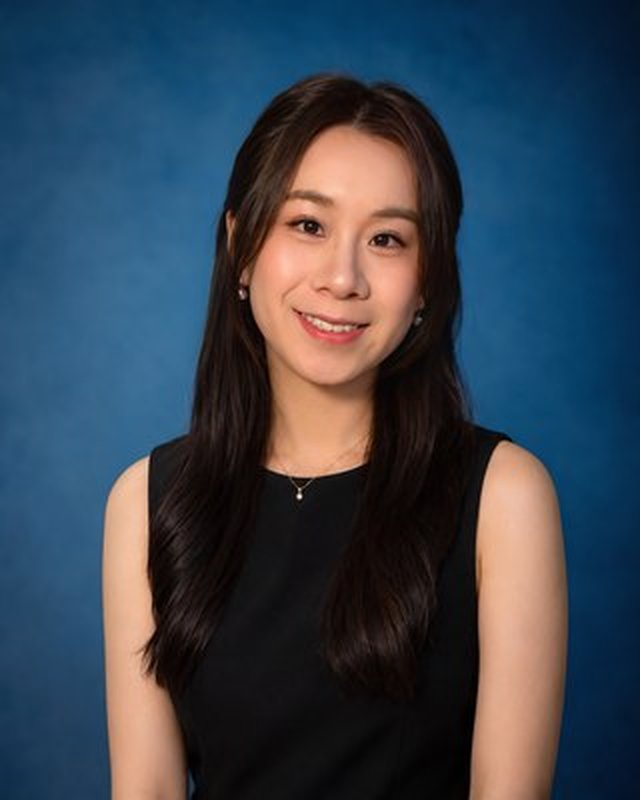
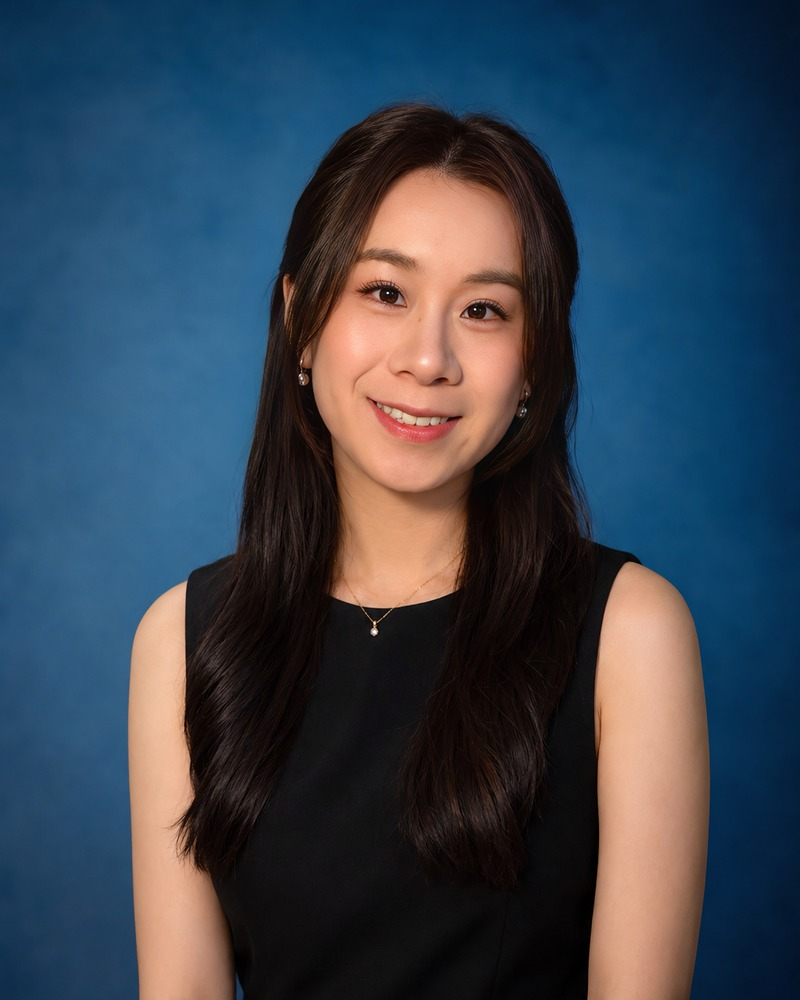
Polish hero CTAs, contact grid, nav, and sharper hero photo.
Shortens hero buttons to one row, refines resume contact card icon colors, and exports retina hero photo assets.

diff --git a/index.html b/index.html
@@ -186,11 +186,21 @@ a { text-decoration: none; color: inherit; }
   border-radius: 2px;
 }
 
+@media (max-width: 900px) {
+  .nav {
+    max-width: min(920px, 96vw);
+    padding: 9px 16px 9px 12px;
+  }
+  .nav-links { gap: 12px; }
+  .nav-link { font-size: 13px; }
+  .nav-name-cn { display: none; }
+}
+
 @media (max-width: 768px) {
   .nav-links { gap: 14px; }
   .nav-link { font-size: 13px; }
   .nav-name-en { font-size: 13px; }
-  .nav-name-cn { font-size: 11px; }
+  .nav-link--wide { display: none; }
 }
 
 /* ============================================
@@ -336,10 +346,21 @@ a { text-decoration: none; color: inherit; }
 
 .hero-ctas {
   display: flex;
-  gap: 14px;
+  gap: 10px;
   align-items: center;
-  flex-wrap: wrap;
+  flex-wrap: nowrap;
   margin-top: 8px;
+}
+
+.hero-ctas .btn {
+  padding: 12px 20px;
+.hero-ctas .btn-tertiary {
+  padding: 12px 6px;
+}
+
+  font-size: 14px;
+  white-space: nowrap;
+  flex-shrink: 0;
 }
 
 .btn {
@@ -378,6 +399,19 @@ a { text-decoration: none; color: inherit; }
   transform: translateY(-2px);
   background: rgba(93, 112, 82, 0.06);
 }
+.btn-resume {
+  background: rgba(61, 107, 84, 0.10);
+  color: var(--moss-deep);
+  border: 1.5px solid var(--moss-deep);
+  box-shadow: none;
+}
+
+.btn-resume:hover {
+  transform: translateY(-2px);
+  background: rgba(61, 107, 84, 0.16);
+  box-shadow: var(--shadow-sm);
+}
+
 
 .btn-tertiary {
   background: transparent;
@@ -435,9 +469,18 @@ a { text-decoration: none; color: inherit; }
   aspect-ratio: 4 / 5;
   border-radius: var(--r-img);
   box-shadow: var(--shadow-lg);
-  background: url('./assets/hero-photo.jpg') center 20% / cover no-repeat;
   position: relative;
   z-index: 1;
+  overflow: hidden;
+  background: var(--bg-paper);
+}
+
+.hero-photo img {
+  width: 100%;
+  height: 100%;
+  object-fit: cover;
+  object-position: center 18%;
+  display: block;
 }
 
 /* ============================================
@@ -2540,7 +2583,7 @@ a { text-decoration: none; color: inherit; }
 
 .contact-card:hover {
   background: rgba(255, 253, 247, 0.08);
-  border-color: rgba(212, 165, 116, 0.45);
+  border-color: rgba(255, 253, 247, 0.22);
   transform: translateY(-2px);
 }
 
@@ -2552,13 +2595,33 @@ a { text-decoration: none; color: inherit; }
   height: 30px;
   flex-shrink: 0;
   border-radius: 7px;
-  background: rgba(212, 165, 116, 0.14);
-  color: rgba(212, 165, 116, 1);
 }
 
 .contact-icon svg {
   width: 16px;
   height: 16px;
+}
+
+/* 简历：琥珀色图标强调优先级 */
+.contact-card--resume .contact-icon {
+  background: rgba(212, 165, 116, 0.22);
+  color: var(--amber);
+  border: 1px solid rgba(212, 165, 116, 0.38);
+}
+
+.contact-card--resume:hover {
+  border-color: rgba(212, 165, 116, 0.55);
+}
+
+/* 邮箱 / LinkedIn / GitHub：苔藓绿图标 */
+.contact-icon--green {
+  background: rgba(93, 112, 82, 0.28);
+  color: rgba(186, 214, 195, 0.95);
+  border: 1px solid rgba(93, 112, 82, 0.42);
+}
+
+.contact-card:has(.contact-icon--green):hover {
+  border-color: rgba(125, 155, 132, 0.5);
 }
 
 .contact-text {
@@ -3789,13 +3852,20 @@ a { text-decoration: none; color: inherit; }
     max-width: 100%;
   }
   .hero-ctas {
-    flex-direction: column;
-    align-items: stretch;
+    flex-wrap: nowrap;
+    gap: 8px;
     width: 100%;
+    overflow-x: auto;
+    -webkit-overflow-scrolling: touch;
+    scrollbar-width: none;
+    padding-bottom: 2px;
   }
+  .hero-ctas::-webkit-scrollbar { display: none; }
   .hero-ctas .btn {
+    padding: 10px 14px;
+    font-size: 13px;
     justify-content: center;
-    width: 100%;
+    width: auto;
     box-sizing: border-box;
   }
 
@@ -3916,12 +3986,12 @@ a { text-decoration: none; color: inherit; }
       </div>
     </div>
     <div class="nav-links">
-      <a href="#hero" class="nav-link active">Home</a>
-      <a href="#research" class="nav-link">Research</a>
+      <a href="#hero" class="nav-link nav-link--wide active">Home</a>
+      <a href="#research" class="nav-link nav-link--wide">Research</a>
       <a href="#works" class="nav-link">Works</a>
-      <a href="#toolkit" class="nav-link">AI Workflow</a>
+      <a href="#toolkit" class="nav-link">Workflow</a>
       <a href="#writing" class="nav-link">Writings</a>
-      <a href="#about" class="nav-link">About</a>
+      <a href="#about" class="nav-link nav-link--wide">About</a>
       <a href="#contact" class="nav-link">Contact</a>
     </div>
   </nav>
@@ -3957,14 +4027,15 @@ a { text-decoration: none; color: inherit; }
 
     <div class="hero-ctas fade-up delay-5">
       <a href="#works" class="btn btn-primary">查看代表作品 →</a>
-      <a href="#toolkit" class="btn btn-secondary">看看我的 AI 工作流</a>
+      <a href="./assets/zhengnn_resume.pdf" class="btn btn-resume" target="_blank" rel="noopener noreferrer">下载简历 ↓</a>
+      <a href="#toolkit" class="btn btn-secondary">看看 AI 工作流</a>
       <a href="#contact" class="btn btn-tertiary">联系我</a>
     </div>
 
     <!-- AI JD Match · Hero 内嵌 demo -->
     <div class="jd-match fade-up delay-6">
       <h3 class="jd-match-title">想看我和这个岗位的<em>匹配度</em>？</h3>
-      <p class="jd-match-subtitle">贴 JD 或选下方示例，30 秒内告诉你。</p>
+      <p class="jd-match-subtitle">选择一个岗位方向，看看我的匹配判断框架。</p>
 
       <div class="jd-match-row">
         <input type="text" class="jd-match-input" id="jd-input" placeholder="粘贴 JD 关键词，或直接选示例…" autocomplete="off">
@@ -3982,7 +4053,17 @@ a { text-decoration: none; color: inherit; }
   <div class="hero-right fade-up delay-2">
     <div class="hero-blob"></div>
     <div class="hero-blob-amber"></div>
-    <div class="hero-photo"></div>
+    <div class="hero-photo">
+      <img
+        src="./assets/hero-photo.jpg"
+        srcset="./assets/hero-photo.jpg 800w, ./assets/[email redacted] 1200w"
+        sizes="(max-width: 480px) 72vw, 360px"
+        width="800"
+        height="1000"
+        alt="郑宁宁"
+        decoding="async"
+        fetchpriority="high">
+    </div>
   </div>
 </section>
 
@@ -4254,8 +4335,7 @@ a { text-decoration: none; color: inherit; }
         <div class="workflow-stack">
           <span class="workflow-stack-label">日常工具栈</span>
           <div class="workflow-app-icons" aria-label="Vibe Coding 常用工具">
-            <span class="wf-app-icon wf-app-icon--square" title="Claude Code" aria-label="Claude Code"><img src="./assets/tool-icons/claude.png" alt="" loading="lazy" decoding="async"></span><span class="wf-app-icon wf-app-icon--square" title="ChatGPT" aria-label="ChatGPT"><img src="./assets/tool-icons/chatgpt.png" alt="" loading="lazy" decoding="async"></span><span class="wf-app-icon wf-app-icon--square" title="Gemini" aria-label="Gemini"><img src="./assets/tool-icons/gemini.png" alt="" loading="lazy" decoding="async"></span><span class="wf-app-icon wf-app-icon--square" title="Cursor" aria-label="Cursor"><img src="./assets/tool-icons/cursor.png" alt="" loading="lazy" decoding="async"></span><span class="wf-app-icon wf-app-icon--codex" title="Codex" aria-label="Codex"><img src="./assets/codex-app-icon.png" alt="" width="20" height="20" loading="lazy"></span><span class="wf-app-icon wf-app-icon--square" title="Replit" aria-label="Replit"><img src="./assets/tool-icons/replit.png" alt="" loading="lazy" decoding="async"></span>
-          </div>
+            <span class="wf-app-icon wf-app-icon--square" title="Claude" aria-label="Claude"><img src="https://icons.duckduckgo.com/ip3/claude.ai.ico" alt="" loading="lazy" decoding="async"></span><span class="wf-app-icon wf-app-icon--square" title="Cursor" aria-label="Cursor"><img src="https://icons.duckduckgo.com/ip3/cursor.com.ico" alt="" loading="lazy" decoding="async"></span><span class="wf-app-icon wf-app-icon--square" title="Gemini" aria-label="Gemini"><img src="https://icons.duckduckgo.com/ip3/gemini.google.com.ico" alt="" loading="lazy" decoding="async"></span><span class="wf-app-icon wf-app-icon--square" title="ChatGPT" aria-label="ChatGPT"><img src="https://icons.duckduckgo.com/ip3/chatgpt.com.ico" alt="" loading="lazy" decoding="async"></span><span class="wf-app-icon wf-app-icon--codex" title="Codex" aria-label="Codex"><img src="./assets/codex-app-icon.png" alt="" width="20" height="20" loading="lazy"></span><span class="wf-app-icon wf-app-icon--square" title="GitHub" aria-label="GitHub"><img src="https://icons.duckduckgo.com/ip3/github.com.ico" alt="" loading="lazy" decoding="async"></span><span class="wf-app-icon wf-app-icon--square" title="Replit" aria-label="Replit"><img src="https://icons.duckduckgo.com/ip3/replit.com.ico" alt="" loading="lazy" decoding="async"></span></div>
         </div>
       </article>
 
@@ -4293,8 +4373,7 @@ a { text-decoration: none; color: inherit; }
         <div class="workflow-stack">
           <span class="workflow-stack-label">日常工具栈</span>
           <div class="workflow-app-icons" aria-label="行业研究常用工具">
-            <span class="wf-app-icon wf-app-icon--aihot" title="AI HOT" aria-label="AI HOT"><svg xmlns="http://www.w3.org/2000/svg" viewBox="0 0 56 18" aria-hidden="true"><rect width="56" height="18" rx="4.5" fill="#1a2332"/><text x="6" y="12.8" fill="#ffffff" font-family="Inter,system-ui,sans-serif" font-size="8.5" font-weight="700" letter-spacing="0.02em">AI</text><circle cx="27" cy="9" r="4.6" fill="none" stroke="#2dd4bf" stroke-width="1.35"/><line x1="24.2" y1="11.5" x2="29.8" y2="6.5" stroke="#2dd4bf" stroke-width="1.1" stroke-linecap="round"/><circle cx="27" cy="9" r="1.1" fill="#2dd4bf"/><text x="33" y="12.8" fill="#38bdf8" font-family="Inter,system-ui,sans-serif" font-size="8.5" font-weight="700" letter-spacing="0.02em">HOT</text></svg></span><span class="wf-app-icon wf-app-icon--square" title="X" aria-label="X"><img src="./assets/tool-icons/x.png" alt="" loading="lazy" decoding="async"></span><span class="wf-app-icon wf-app-icon--square" title="Obsidian" aria-label="Obsidian"><img src="./assets/tool-icons/obsidian.png" alt="" loading="lazy" decoding="async"></span><span class="wf-app-icon wf-app-icon--codex" title="Codex" aria-label="Codex"><img src="./assets/codex-app-icon.png" alt="" width="20" height="20" loading="lazy"></span><span class="wf-app-icon wf-app-icon--square" title="ChatGPT" aria-label="ChatGPT"><img src="./assets/tool-icons/chatgpt.png" alt="" loading="lazy" decoding="async"></span><span class="wf-app-icon wf-app-icon--square" title="Claude" aria-label="Claude"><img src="./assets/tool-icons/claude.png" alt="" loading="lazy" decoding="async"></span>
-          </div>
+            <span class="wf-app-icon wf-app-icon--aihot" title="AI HOT" aria-label="AI HOT"><svg xmlns="http://www.w3.org/2000/svg" viewBox="0 0 56 18" aria-hidden="true"><rect width="56" height="18" rx="4.5" fill="#1a2332"/><text x="6" y="12.8" fill="#ffffff" font-family="Inter,system-ui,sans-serif" font-size="8.5" font-weight="700" letter-spacing="0.02em">AI</text><circle cx="27" cy="9" r="4.6" fill="none" stroke="#2dd4bf" stroke-width="1.35"/><line x1="24.2" y1="11.5" x2="29.8" y2="6.5" stroke="#2dd4bf" stroke-width="1.1" stroke-linecap="round"/><circle cx="27" cy="9" r="1.1" fill="#2dd4bf"/><text x="33" y="12.8" fill="#38bdf8" font-family="Inter,system-ui,sans-serif" font-size="8.5" font-weight="700" letter-spacing="0.02em">HOT</text></svg></span><span class="wf-app-icon wf-app-icon--square" title="X" aria-label="X"><img src="https://icons.duckduckgo.com/ip3/x.com.ico" alt="" loading="lazy" decoding="async"></span><span class="wf-app-icon wf-app-icon--square" title="Obsidian" aria-label="Obsidian"><img src="https://icons.duckduckgo.com/ip3/obsidian.md.ico" alt="" loading="lazy" decoding="async"></span><span class="wf-app-icon wf-app-icon--codex" title="Codex" aria-label="Codex"><img src="./assets/codex-app-icon.png" alt="" width="20" height="20" loading="lazy"></span><span class="wf-app-icon wf-app-icon--square" title="Claude" aria-label="Claude"><img src="https://icons.duckduckgo.com/ip3/claude.ai.ico" alt="" loading="lazy" decoding="async"></span><span class="wf-app-icon wf-app-icon--square" title="ChatGPT" aria-label="ChatGPT"><img src="https://icons.duckduckgo.com/ip3/chatgpt.com.ico" alt="" loading="lazy" decoding="async"></span></div>
         </div>
       </article>
 
@@ -4744,19 +4823,21 @@ a { text-decoration: none; color: inherit; }
 
     <div class="contact-grid">
 
-      <a href="./assets/zhengnn_resume.pdf" target="_blank" rel="noopener noreferrer" class="contact-card">
+      <a href="./assets/zhengnn_resume.pdf" target="_blank" rel="noopener noreferrer" class="contact-card contact-card--resume">
         <span class="contact-icon" aria-hidden="true">
-          <svg viewBox="0 0 24 24" fill="none" stroke="currentColor" stroke-width="1.6" stroke-linecap="round" stroke-linejoin="round">
-            <path d="M14 3H7a2 2 0 0 0-2 2v14a2 2 0 0 0 2 2h10a2 2 0 0 0 2-2V8z"/>
-            <path d="M14 3v5h5"/>
-            <path d="M12 11v6m-3-3l3 3 3-3"/>
+          <svg viewBox="0 0 24 24" fill="none" stroke="currentColor" stroke-width="1.5" stroke-linecap="round" stroke-linejoin="round">
+            <path d="M8 3.5h7.2L18 6.5V20a1.5 1.5 0 0 1-1.5 1.5H8A1.5 1.5 0 0 1 6.5 20V5A1.5 1.5 0 0 1 8 3.5z"/>
+            <path d="M15 3.5V7H18.5"/>
+            <path d="M9 11.5h6"/>
+            <path d="M9 14.5h4.5"/>
+            <path d="M9 17.5h5.5"/>
           </svg>
         </span>
         <span class="contact-text">下载简历 PDF</span>
       </a>
 
       <a href="mailto:[email redacted]" class="contact-card">
-        <span class="contact-icon" aria-hidden="true">
+        <span class="contact-icon contact-icon--green" aria-hidden="true">
           <svg viewBox="0 0 24 24" fill="none" stroke="currentColor" stroke-width="1.6" stroke-linecap="round" stroke-linejoin="round">
             <rect x="3" y="5" width="18" height="14" rx="2"/>
             <path d="M3 7l9 6 9-6"/>
@@ -4766,7 +4847,7 @@ a { text-decoration: none; color: inherit; }
       </a>
 
       <a href="https://linkedin.com/in/ningning-zheng-580408240" target="_blank" rel="noopener noreferrer" class="contact-card">
-        <span class="contact-icon" aria-hidden="true">
+        <span class="contact-icon contact-icon--green" aria-hidden="true">
           <svg viewBox="0 0 24 24" fill="currentColor">
             <path d="M19 3H5a2 2 0 0 0-2 2v14a2 2 0 0 0 2 2h14a2 2 0 0 0 2-2V5a2 2 0 0 0-2-2zM8.5 17H6V9.5h2.5V17zM7.25 8.42a1.46 1.46 0 1 1 0-2.92 1.46 1.46 0 0 1 0 2.92zM18 17h-2.5v-4.16c0-1.07-.44-1.41-1.16-1.41-.76 0-1.34.5-1.34 1.5V17h-2.5V9.5h2.4v1.06c.4-.63 1.18-1.06 2.1-1.06 1.78 0 2.83.94 2.83 3V17z"/>
           </svg>
@@ -4775,7 +4856,7 @@ a { text-decoration: none; color: inherit; }
       </a>
 
       <a href="https://github.com/sunnymilky80" target="_blank" rel="noopener noreferrer" class="contact-card">
-        <span class="contact-icon" aria-hidden="true">
+        <span class="contact-icon contact-icon--green" aria-hidden="true">
           <svg viewBox="0 0 24 24" fill="currentColor">
             <path d="M12 0C5.37 0 0 5.37 0 12c0 5.3 3.44 9.8 8.21 11.39.6.11.82-.26.82-.58 0-.29-.01-1.05-.02-2.06-3.34.72-4.05-1.61-4.05-1.61-.54-1.4-1.34-1.77-1.34-1.77-1.09-.74.08-.73.08-.73 1.21.08 1.84 1.24 1.84 1.24 1.07 1.83 2.81 1.3 3.5.99.11-.77.42-1.3.76-1.6-2.66-.3-5.46-1.33-5.46-5.93 0-1.31.47-2.38 1.24-3.22-.12-.31-.54-1.53.12-3.18 0 0 1.01-.32 3.3 1.23.96-.27 1.99-.4 3.01-.41 1.02.01 2.05.14 3.01.41 2.29-1.55 3.3-1.23 3.3-1.23.66 1.65.24 2.87.12 3.18.77.84 1.24 1.91 1.24 3.22 0 4.61-2.8 5.63-5.47 5.92.43.37.81 1.1.81 2.22 0 1.6-.01 2.89-.01 3.29 0 .32.22.69.83.58C20.56 21.8 24 17.3 24 12c0-6.63-5.37-12-12-12z"/>
           </svg>